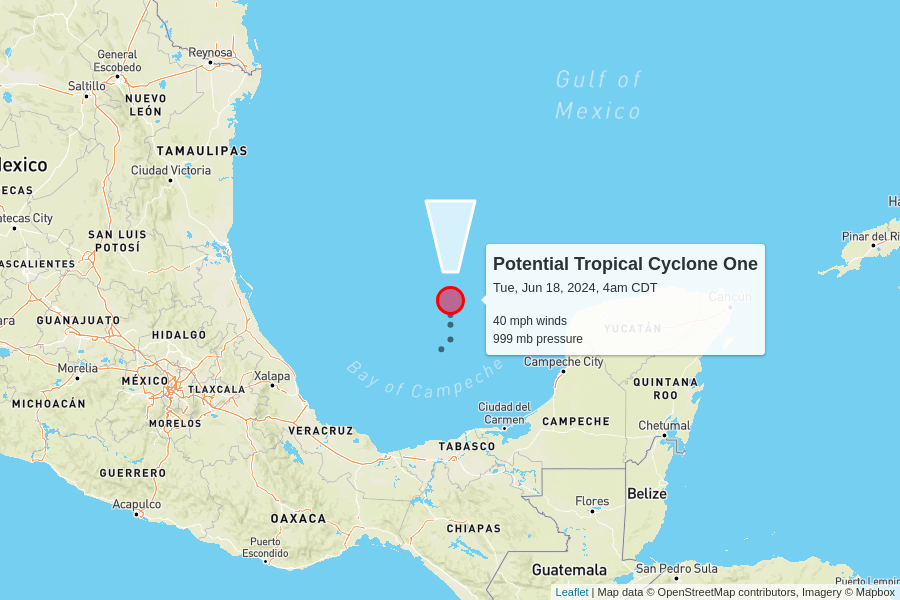
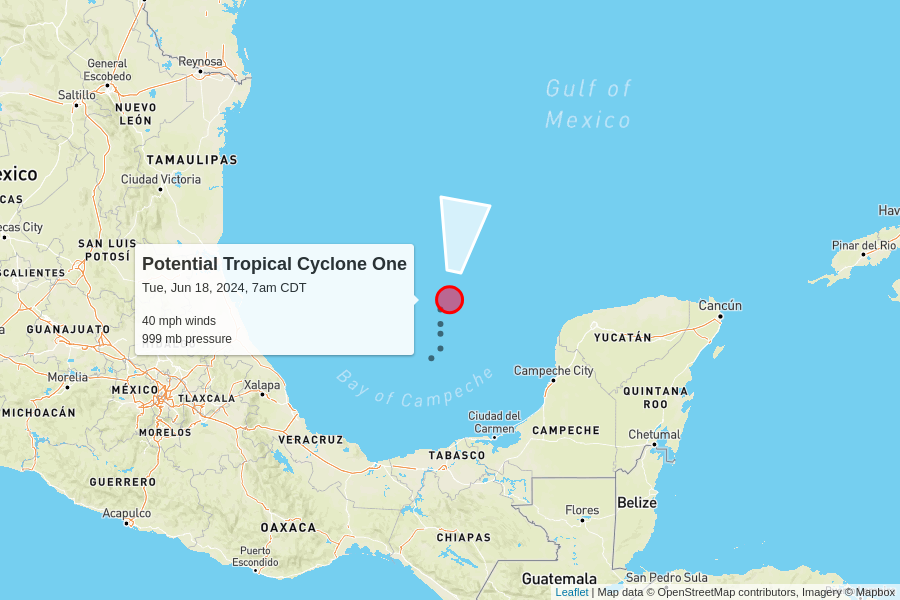
automatic update

diff --git a/docs/index.html b/docs/index.html
@@ -102,7 +102,7 @@
         <td colspan="6" class="storm category-0" >
           <h2>
             Potential Tropical Cyclone One
-            <p class="updated">last updated <span data-time>2024-06-18T09:00:00.000Z</span></p>
+            <p class="updated">last updated <span data-time>2024-06-18T12:00:00.000Z</span></p>
           </h2>
         </td>
       </tr>
@@ -122,7 +122,7 @@
         <td>
           6 mph to the north
           <br/>
-          <span style="display: inline-block; font-size: 1.5em; transform: rotate(360deg);">↑</span>
+          <span style="display: inline-block; font-size: 1.5em; transform: rotate(10deg);">↑</span>
         </td>
         <td><a href="https://raw.githubusercontent.com/mgwalker/atlantic-hurricanes/main/data/csv/AL012024.csv">AL012024.csv</a></td>
         <td><a href="https://www.nhc.noaa.gov/archive/2024/ONE.shtml?">NHC advisories</a></td>
